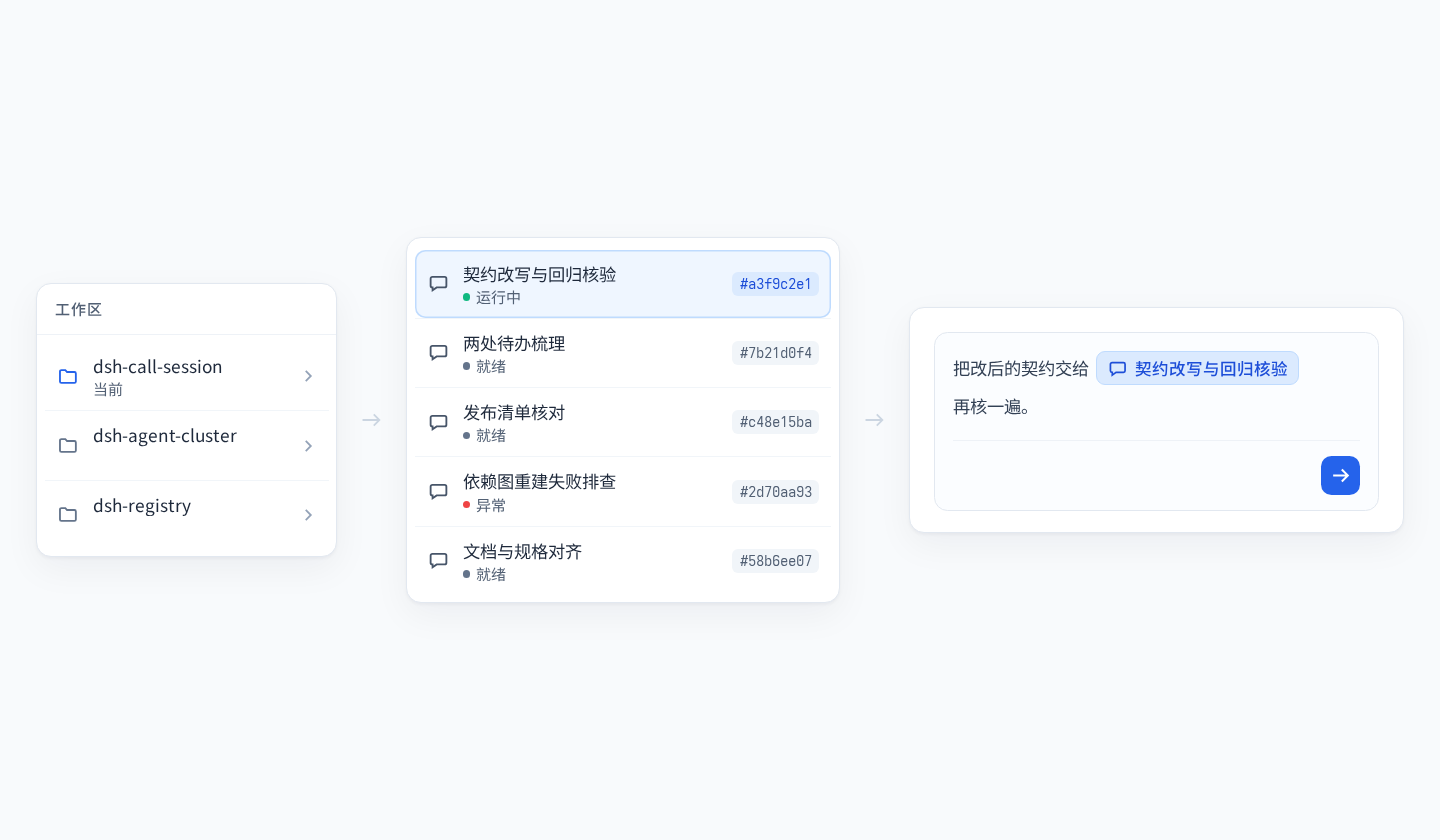
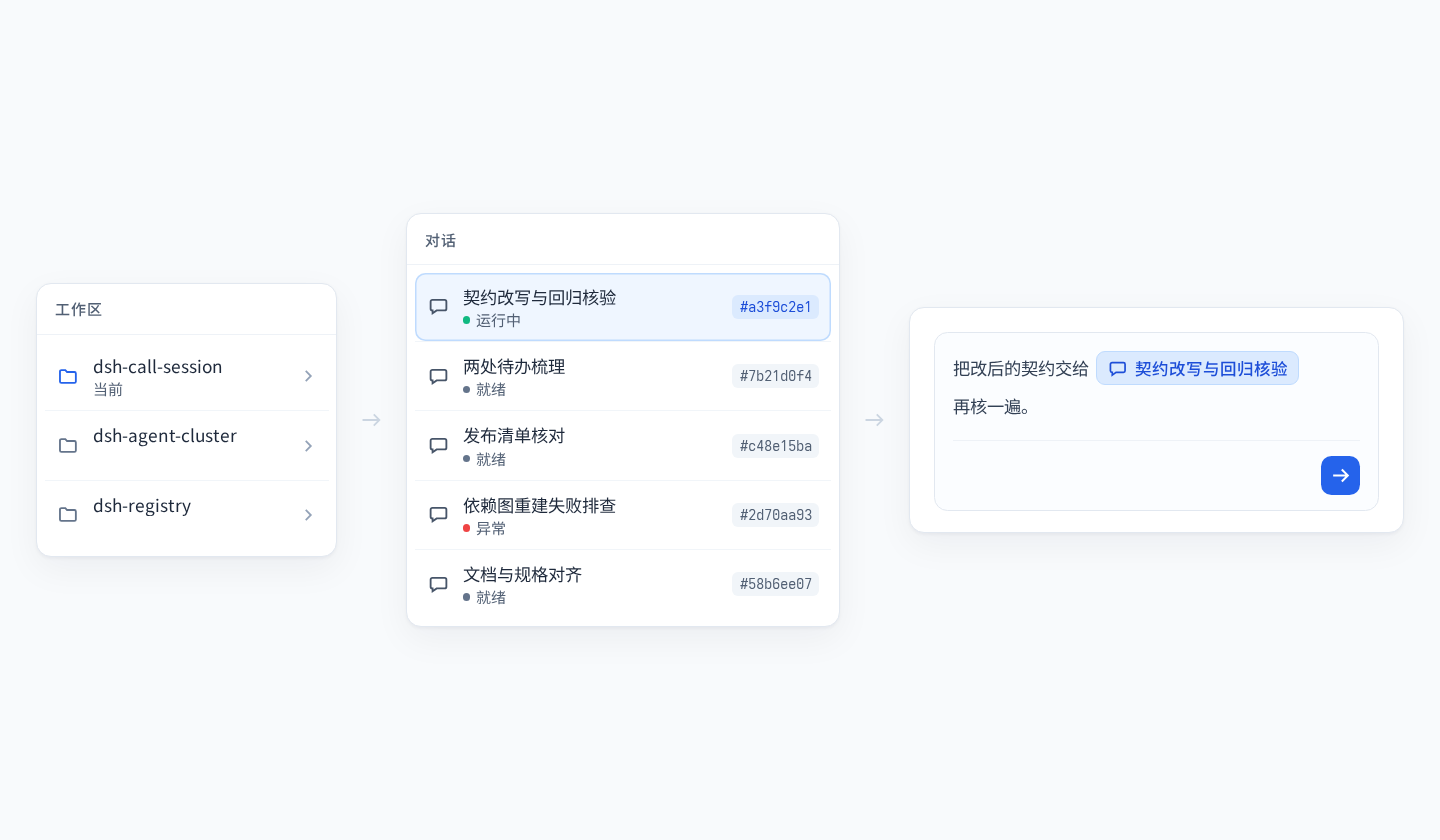
fix(mention): name the session section and redraw the figure
The drilled menu carries a 对话 section; only the drill header stays withdrawn.

diff --git a/lib/client.js b/lib/client.js
@@ -42,6 +42,7 @@
     'session.current': '当前',
     'workspace.current': '当前',
     'section.workspaces': '工作区',
+    'section.sessions': '对话',
     'time.now': '刚刚',
     'time.minutes': '{n}分钟前',
     'time.hours': '{n}小时前',
@@ -118,6 +119,7 @@
     'session.current': 'Current',
     'workspace.current': 'Current',
     'section.workspaces': 'Workspaces',
+    'section.sessions': 'Sessions',
     'time.now': 'now',
     'time.minutes': '{n}m ago',
     'time.hours': '{n}h ago',
@@ -4116,7 +4118,9 @@
                 label: label,
                 description: desc || undefined,
                 icon: 'session',
-                section: undefined,
+                // 会话行自带 section：面板标题由宿主按 item.section 渲染，分组标题已被 showGroupTitle:false 关掉，
+                // 二级因此有一行「对话」，与会话列表本体同属一个面板。
+                section: t('section.sessions'),
                 value: JSON.stringify(val)
               };
             });

diff --git a/docs/agents/peer-session-mention-spec.md b/docs/agents/peer-session-mention-spec.md
@@ -21,7 +21,7 @@ Bring every surface onto one membership rule and stop rendering file-browsing ch
 3. **Level 2 visibility mirrors the sidebar.** A member is listed when it resolves in `sessions.byId` and passes the sidebar's own three exclusions: `origin === "subagent"` is dropped, `blank` is dropped unless it is the current session, and `archivedSessionIds` membership is dropped under the default archive filter.
 4. **The session drill-down carries no file semantics and no level heading.** While drilled, the plugin's native reference wrapper returns an empty array, so the host contributes neither `对话` session rows, nor its `工作区` drill header, nor `进入目录` directory rows. The plugin's own `header` hook returns `undefined` at both levels, so Level 2 shows the session rows and nothing above them. The workspace tier is expressed by the workspace rows in Level 1 alone; restating it as a heading over the session rows makes the menu read as if a workspace were still a category inside the drill-down, and reachable `进入目录`-shaped rows are the misleading affordance that omission avoids. There is no "back to the workspaces" entry either: returning to Level 1 is deleting text from the composer, which is the interaction the composer already has.
 5. **Drill state follows the query, not only the host flag.** A query that resolves to a known workspace is treated as Level 2 whether it arrived from a drill action or from typing, so the level boundary never collapses.
-6. **The README asset is regenerated from the real structure.** The demo renders the real Level 1 (`工作区` section, workspace rows only) and the real Level 2 (session rows with status and short ID, no section title, no drill header, no directory rows), and the false recency claim is removed from both READMEs.
+6. **The README asset is regenerated from the real structure.** The demo renders the real Level 1 (`工作区` section, workspace rows only) and the real Level 2 (`对话` section, session rows with status and short ID, no drill header, no directory rows), and the false recency claim is removed from both READMEs.
 
 ## User Stories
 
@@ -47,7 +47,7 @@ Bring every surface onto one membership rule and stop rendering file-browsing ch
 
 The capability registers a client input trigger source named `peer-session` on the `@` character with `order: -10` and `showGroupTitle: false`. Level 1 supplies `section: t('section.workspaces')` on every workspace row, so `工作区` renders as a section title above the roster.
 
-Level 2 supplies `section: undefined` on every session row, and so does the host's `对话` row set, which the drill-down suppresses. The drilled menu therefore has no section title at all: the workspace tier is named once, in Level 1, and repeating it over a list of sessions would say the workspace is still a category to pick from when it has already been picked.
+Level 2 supplies `section: t('section.sessions')` on every session row, so `对话` renders as a section title over the members of the drilled workspace. Each level names its own tier once, and the section titles are what carry that naming; the host's own `对话` row set is suppressed and contributes no title of its own.
 
 ### Level 1: Roster As Truth
 
@@ -80,7 +80,7 @@ Ordering is a single tier by `updatedAt` descending with zero collaborator pinni
 
 Level 1 does not clamp. ADR-0034 Invariant 8 sizes the cap to keep the secondary list bounded on a keystroke path; the roster is small and fixed by what the user registered, and hiding workspace number 51 is not a latency problem but a missing workspace. The two levels are therefore deliberately asymmetric, and this asymmetry is the resolution of the conflict between Invariant 8 and "Level 1 candidate count equals `workspaces.items.length`": the count rule wins on Level 1, the clamp wins on Level 2.
 
-Every Level 2 candidate carries `section: undefined` and no `drill` field.
+Every Level 2 candidate carries `section: t('section.sessions')` and no `drill` field.
 
 ### Drill-Down Suppresses Native Reference Candidates
 
@@ -136,7 +136,7 @@ Required fixture cases:
 
 ### Asset Assertions
 
-`tests/mention-demo-asset.test.mjs` keeps pinning the demo geometry, the manifest pairing, the README bindings, and the short-ID shape. It gains assertions that the rendered demo contains the Level 1 `工作区` heading with workspace rows only, that the Level 2 panel carries session rows only and **no section heading**, and that no drill header, `进入目录` label, or directory row appears anywhere. The absence assertion on the Level 2 heading is the one that keeps the figure honest: an earlier revision drew a `对话` title that the plugin never renders, which is exactly the kind of screenshot the reader cannot reconcile with the app.
+`tests/mention-demo-asset.test.mjs` keeps pinning the demo geometry, the manifest pairing, the README bindings, and the short-ID shape. It gains assertions that the rendered demo contains the Level 1 `工作区` heading with workspace rows only, the Level 2 `对话` heading with session rows only, and no drill header, `进入目录` label, or directory row anywhere.
 
 ### Test Location
 
